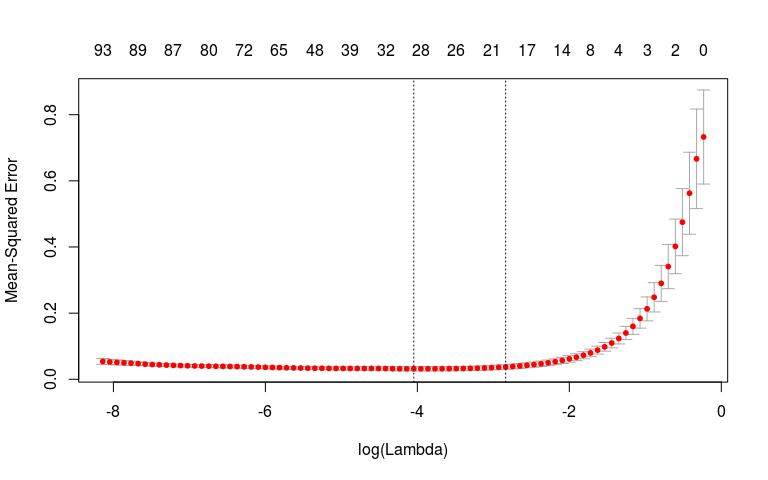
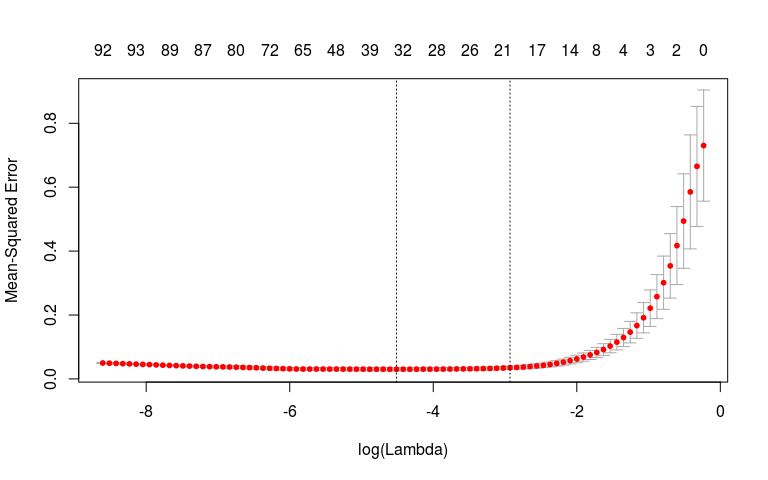
set seed, try to fix md tables, add headers

diff --git a/sismid_10-statistics_and_modeling_with_novel_data_streams/trends/trends.md b/sismid_10-statistics_and_modeling_with_novel_data_streams/trends/trends.md
@@ -46,7 +46,7 @@ identical(ili$Date, ili_2$Date)
 useful::topleft(ili)
 ```
 
-<div class="kable-table">
+<!-- <div class="kable-table"> -->
 
 Date          Influenza-like Illness (CDC)   influenza type a   symptoms of flu   flu duration
 -----------  -----------------------------  -----------------  ----------------  -------------
@@ -62,7 +62,7 @@ Date          Influenza-like Illness (CDC)   influenza type a   symptoms of flu 
 useful::topleft(ili_2)
 ```
 
-<div class="kable-table">
+<!-- <div class="kable-table"> -->
 
 Date          Influenza.like.Illness..CDC.   influenza.type.a   symptoms.of.flu   flu.duration
 -----------  -----------------------------  -----------------  ----------------  -------------
@@ -140,6 +140,8 @@ topleft(gc_testing)
 ## [5,]  0.634  0.960  0.195 0.738  0.321
 ```
 
+## Fit the model
+
 
 ```r
 x <- build.x(v1 ~ . - 1, gc_training, FALSE)
@@ -148,10 +150,15 @@ y <- build.y(v1 ~ . - 1, gc_training)
 
 
 ```r
+# set the seed
+set.seed(42)
+
 # LASSO with 5 fold cross-validation
 mod_cv5 <- cv.glmnet(x = x, y = y, family = "gaussian", nfold = 5)
 predictions_cv5 <- predict(mod_cv5, gc_testing[, -1])
 ```
+
+## Look at model coefficients
 
 
 ```r
@@ -159,7 +166,7 @@ mod_cv5$lambda.min
 ```
 
 ```
-## [1] 0.01747911
+## [1] 0.01097739
 ```
 
 ```r
@@ -167,7 +174,7 @@ mod_cv5$lambda.1se
 ```
 
 ```
-## [1] 0.05858302
+## [1] 0.05337867
 ```
 
 ```r
@@ -185,11 +192,14 @@ plot(mod_cv5)
 ```r
 # plot the path
 plot(mod_cv5$glmnet.fit, xvar = "lambda")
+
 # add in vertical lines for the optimal values of lambda
 abline(v = log(c(mod_cv5$lambda.min, mod_cv5$lambda.1se)), lty = 2)
 ```
 
 ![](trends_files/figure-html/acs-glmnet-coefficient-path-1.png)<!-- -->
+
+## Plot predictions
 
 
 ```r
@@ -211,7 +221,7 @@ names(cdc) <- c('year', 'week', 'cases', 'date')
 head(cdc)
 ```
 
-<div class="kable-table">
+<!-- <div class="kable-table"> -->
 
  year   week  cases     date       
 -----  -----  --------  -----------
@@ -232,4 +242,3 @@ ggplot() +
 ```
 
 ![](trends_files/figure-html/unnamed-chunk-15-1.png)<!-- -->
-
